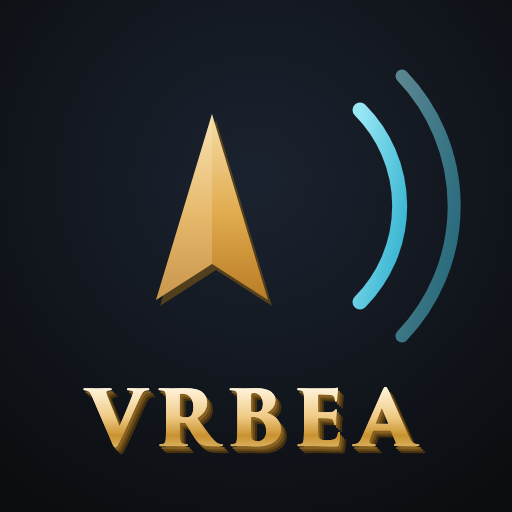
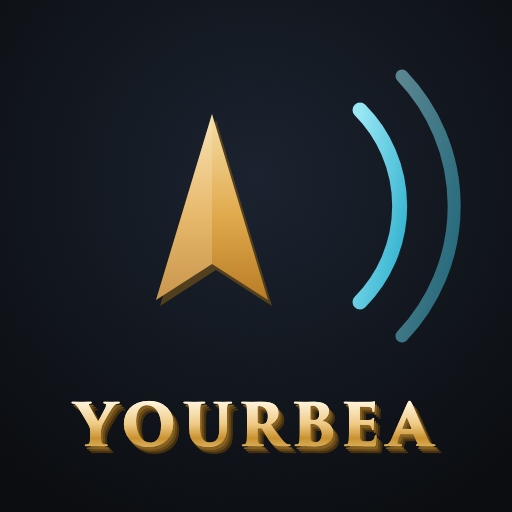
Il nome diventa Yourbea: tuo, e si legge iurbea

Changed region(s): [[0.125, 0.75, 0.875, 0.9062]]

diff --git a/scarica.html b/scarica.html
@@ -3,7 +3,7 @@
 <head>
 <meta charset="utf-8">
 <meta name="viewport" content="width=device-width,initial-scale=1,viewport-fit=cover">
-<title>Urbea — installa la guida</title>
+<title>Yourbea — installa la guida</title>
 <link rel="icon" href="icons/icon-192.png">
 <link rel="stylesheet" href="https://fonts.googleapis.com/css2?family=Bodoni+Moda:opsz,wght@6..96,700&family=IBM+Plex+Mono:wght@400;500&family=Source+Sans+3:wght@400;600;700&display=swap">
 <style>
@@ -68,7 +68,7 @@
 <main>
   <div class="testa">
     <img src="icons/icon-512.png" alt="">
-    <h1>Urbea</h1>
+    <h1>Yourbea</h1>
     <div class="claim">Tu al centro, un museo intorno</div>
     <p>Italia: tu al centro, un museo intorno a te. Cammini e la città si racconta: cosa ammirare, da che parte, a quanti metri. A voce, anche a schermo spento.</p>
   </div>
@@ -77,9 +77,9 @@
     <div class="tag">Android</div>
     <h2>Scarica e installa</h2>
     <p>Un file solo, due megabyte.</p>
-    <a class="bottone" href="Urbea.apk" download>⬇ Scarica Urbea</a>
+    <a class="bottone" href="Yourbea.apk" download>⬇ Scarica Yourbea</a>
     <ol>
-      <li>Tocca il tasto: il telefono scarica <b>Urbea.apk</b>.</li>
+      <li>Tocca il tasto: il telefono scarica <b>Yourbea.apk</b>.</li>
       <li>Apri il file (lo trovi nelle notifiche o in «Download»).</li>
       <li>Consenti l'installazione da questa origine, quando lo chiede.</li>
       <li>Tocca <b>Installa</b>: l'icona compare fra le app.</li>
@@ -91,7 +91,7 @@
     <div class="tag">iPhone · iPad</div>
     <h2>Aggiungi alla Home</h2>
     <p>Niente da scaricare: su iPhone l'app si aggiunge dal browser.</p>
-    <a class="bottone secondo" href="./">Apri Urbea in Safari</a>
+    <a class="bottone secondo" href="./">Apri Yourbea in Safari</a>
     <ol>
       <li>Apri il link <b>con Safari</b>, non dentro WhatsApp.</li>
       <li>Tocca <b>Condividi</b>, il quadrato con la freccia.</li>

diff --git a/index.html b/index.html
@@ -3,7 +3,7 @@
 <head>
 <meta charset="utf-8">
 <meta name="viewport" content="width=device-width,initial-scale=1,viewport-fit=cover">
-<title>Urbea — Tu al centro, un museo intorno</title>
+<title>Yourbea — Tu al centro, un museo intorno</title>
 <meta name="description" content="Cammina e la città ti racconta cosa hai intorno: da che parte, a quanti metri, e cosa c'è da vedere.">
 <link rel="manifest" href="manifest.webmanifest">
 <link rel="stylesheet" href="mappa/leaflet.css">
@@ -355,7 +355,7 @@
 <body>
 <div id="porta" role="dialog" aria-label="Scegli come usare la guida">
   <div class="porta-testa">
-    <span class="wordmark">Urbea</span>
+    <span class="wordmark">Yourbea</span>
     <span class="claim">Tu al centro, un museo intorno</span>
   </div>
   <button class="porta-scelta porta-voce" id="scelta-voce">
@@ -383,7 +383,7 @@
 
 <main class="app">
   <header>
-    <div class="wordmark">Urbea</div>
+    <div class="wordmark">Yourbea</div>
     <div class="claim">Tu al centro, un museo intorno</div>
   </header>
 

diff --git a/sw.js b/sw.js
@@ -1,5 +1,5 @@
 /* Urbea — service worker: la città resta nel telefono */
-const CACHE = 'urbea-v7';
+const CACHE = 'yourbea-v8';
 const ASSETS = [
   './',
   './index.html',
